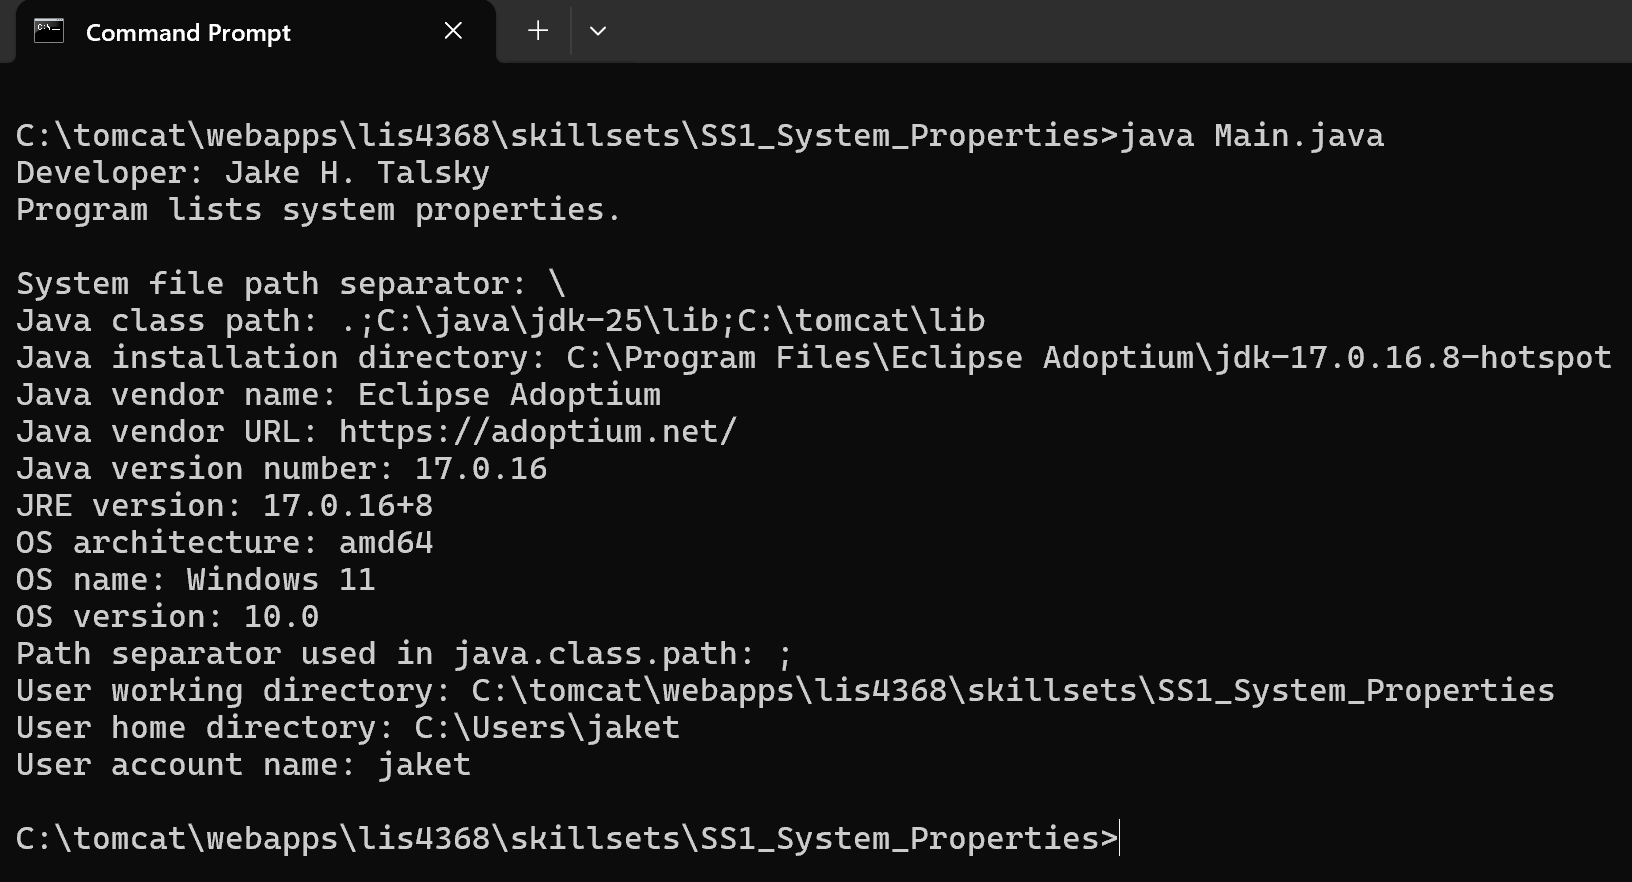
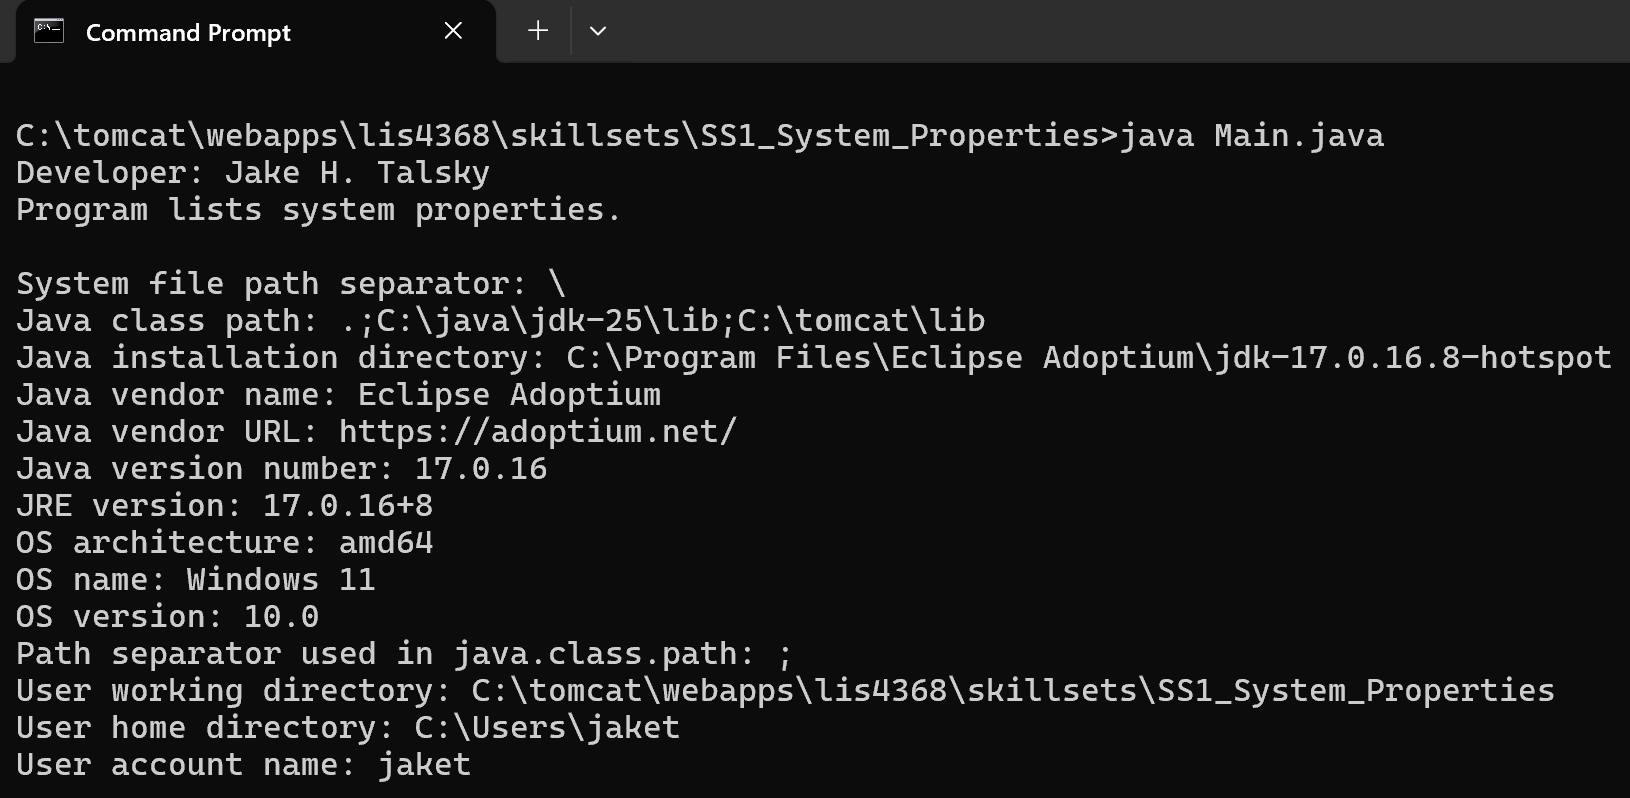
Updated A2 README

Changed region(s): [[0.0, 0.1203, 1.0, 0.9925], [0.3067, 0.0602, 1.0, 0.0902], [0.0307, 0.0301, 0.184, 0.0602]]

diff --git a/a2/README.md b/a2/README.md
@@ -42,6 +42,6 @@ Query Results
 
 *Java Skill Set's Screenshots*
 
-| Skillset 1: System Properties[../skillsets/SS1_System_Properties] | Skillset 2: Looping Structures[../skillsets/SS2_Looping_Structures] | Skillset 3: Number Swap[../skillsets/SS3_Number_Swap] |
+| [Skillset 1: System Properties](../skillsets/SS1_System_Properties) | [Skillset 2: Looping Structures](skillsets/SS2_Looping_Structures) | [Skillset 3: Number Swap](../skillsets/SS3_Number_Swap) |
 | ------------------------------ | ------------------------------ | ------------------------------ |
-| ![Skillset 1](img/SS1_output.png)(img/SS1_out.png) | ![Skillset 2](img/SS2_output.png)(img/SS2_out.png) | ![Skillset 3](img/SS3_output.png)(img/SS3_out.png) |
+| [![Skillset 1](img/SS1_output.png)](img/SS1_output.png) | [![Skillset 2](img/SS2_output.png)](img/SS2_output.png) | [![Skillset 3](img/SS3_output.png)](img/SS3_output.png) |
